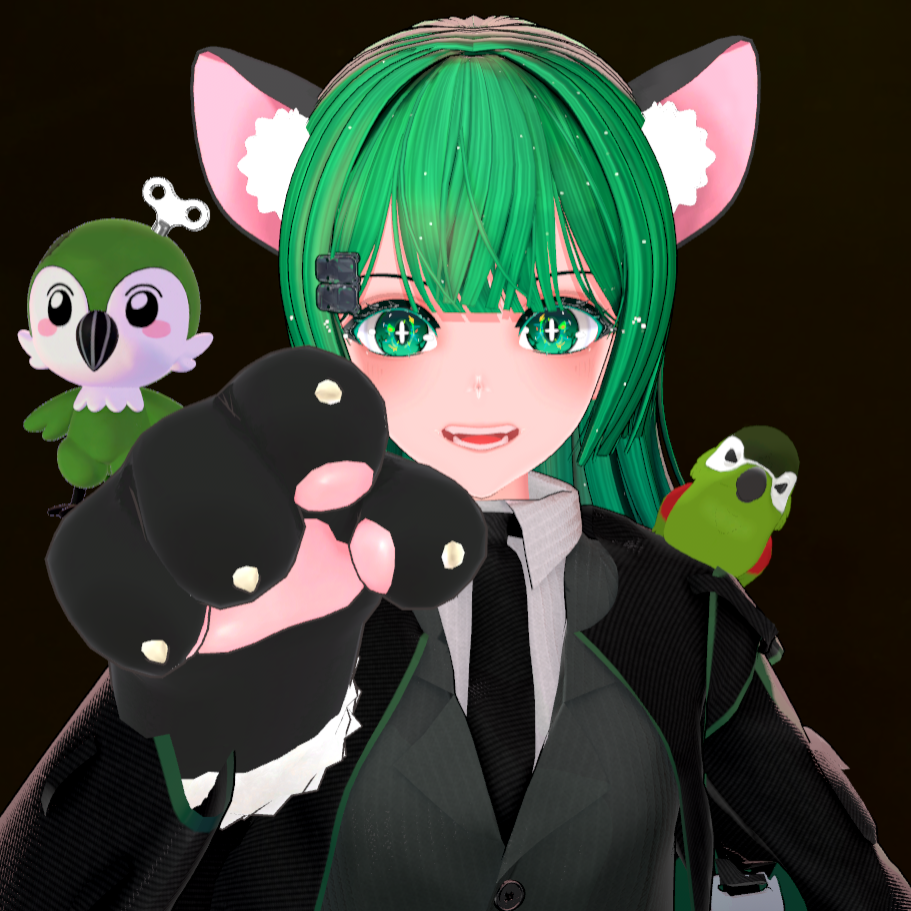
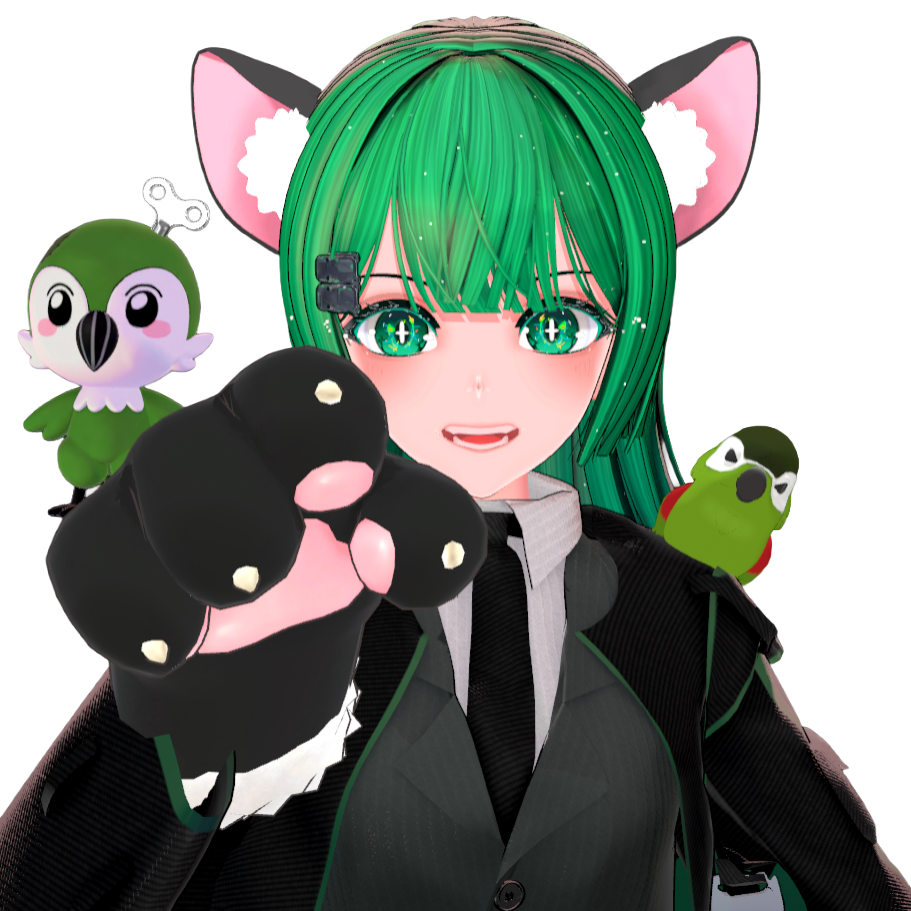
참가자 카드 포지션 글씨 스타일 및 투명배경 이미지 처리 개선
- 포지션 글씨를 검정 테두리의 흰색 글씨로 변경(포지션별 색상 제거 이후 가독성 보완)
- 포지션 글씨가 참가자 사진보다 항상 앞에 오도록 z-index 조정
- 사진 박스의 미세한 반투명 배경 제거 (투명 배경 이미지가 그대로 보이도록)
- 누락됐던 참가자 플리 사진 추가
- 카우리 사진을 투명 배경 이미지로 교체

diff --git a/css/style.css b/css/style.css
@@ -534,11 +534,14 @@ main {
   position: absolute;
   top: 12%;
   left: 10%;
+  z-index: 2;
   font-weight: 900;
   font-size: 1.05rem;
   letter-spacing: 0.3px;
-  color: var(--fc-green);
-  text-shadow: 0 1px 3px rgba(0,0,0,0.85);
+  color: #ffffff;
+  -webkit-text-stroke: 1.5px #000000;
+  paint-order: stroke fill;
+  text-shadow: -1px -1px 0 #000, 1px -1px 0 #000, -1px 1px 0 #000, 1px 1px 0 #000;
 }
 
 .participant-card-photo {
@@ -547,9 +550,10 @@ main {
   left: 10%;
   width: 80%;
   height: 46%;
+  z-index: 1;
   border-radius: 6px;
   overflow: hidden;
-  background: rgba(255,255,255,0.04);
+  background: transparent;
   display: flex;
   align-items: center;
   justify-content: center;
